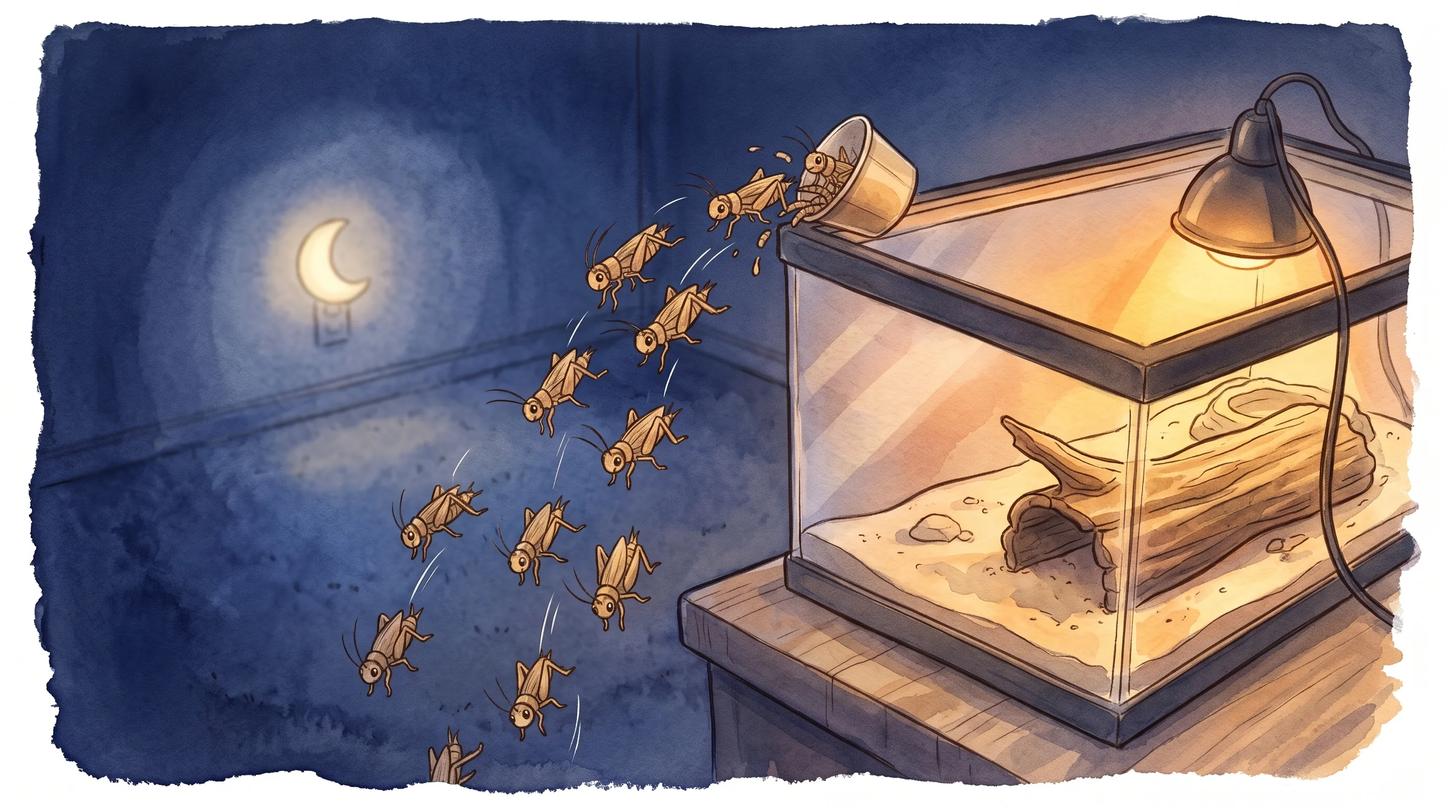
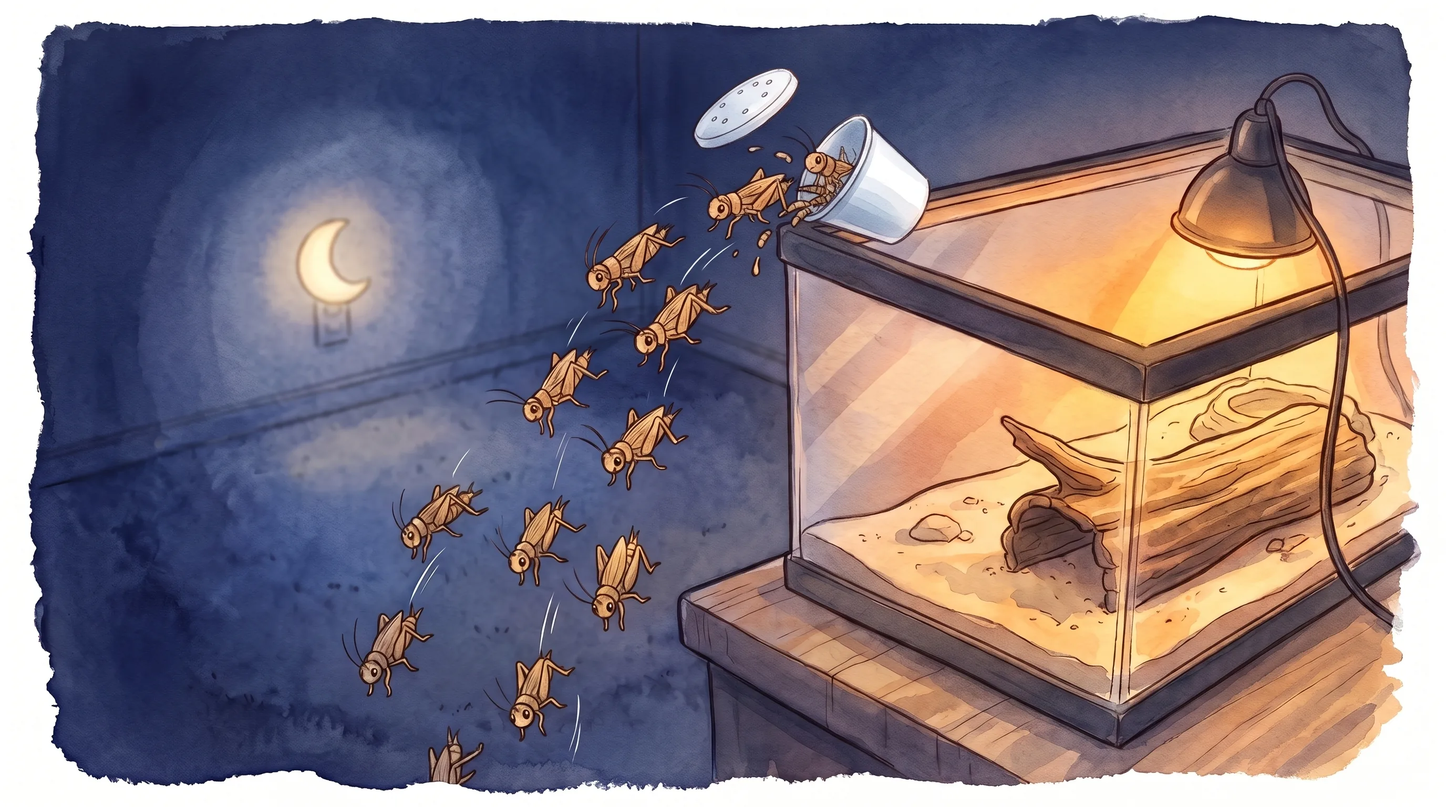
Story panel 4: the falling cup is the white pet-store cup
The cup tipping off the tank lid in panel 4 was painted tan. It is now the same white paper
cricket cup that sits on the lid in panel 3 and tips off it in play (props/store-cup), its
perforated lid popping off. It keeps the old cup's spot, size and tilt, and the rest of the
panel is unchanged. nanogen edit, about $0.16 (design/ASSETS.md).

diff --git a/design/ASSETS.md b/design/ASSETS.md
@@ -93,7 +93,7 @@ $20 in all, of which up to $5 goes on mockups for the shared design. Running tot
 ### Polish pass [polish-V]: $0
 - `sprites/geckos/bigtok/portrait.png`, `sprites/geckos/nana/portrait.png`: face portraits for the Ready? card and dialogs, cropped from each rig's `idle.png` (soft fade at the bottom edge). No generation.
 
-### Issue #6, the feeder cup and the pet-store cup: about $1.21
+### Issue #6, the feeder cup and the pet-store cup: about $1.37
 | ID | File | Tool | Prompt (short) | Tries | Est. cost |
 |---|---|---|---|---|---|
 | cup-open a-d | .gamegen/candidates/i6/cup-{a,b,c,d}.png | imagegen2 2.6-flare medium 1536×1024, transparent; Pip anchor + feeder-cup refs | open pet-store cricket cup from the side: clear + egg crate (a), frosted white + egg crate (b), amber-clear + bran and potato (c), clear + egg crate + lid leaning (d) | 4 (came out about 2:1, too tall for the 6×2-tile cup) | $0.20 (1132 out, 1896 image in each) |
@@ -102,4 +102,6 @@ $20 in all, of which up to $5 goes on mockups for the shared design. Running tot
 | store-cup | art/props/store-cup.png, store-cup-tipped.png | imagegen2 2.6-flare medium, transparent; a crop of open-1's front cup + Pip anchor (tipped: store-cup as ref) | the white paper cricket cup of the opening panels, lidded; the same cup tumbling, lid popping off | 2 | $0.13 |
 | open-3 edit | game/assets/story/open-3.webp | nanogen 2.1 2K edit of the old panel, with cup-b2 and store-cup as refs | store cup on the tank's mesh lid, the tongs lowering Pip into the feeding tub (2 takes, then a second turn to open the mesh under the hand and widen the tub) | 3 | about $0.24 (2.1 isn't priced in the skill; counted like 3.1 flash 2K plus thinking) |
 
-Issue #6 total: about $1.21 ($0.45 candidates + $0.76 final).
+| open-4 edit | game/assets/story/open-4.webp | nanogen 2.1 2K edit of the old panel, with open-3 and store-cup as refs | only the falling cup: the white store cup with its lid popping off (2 takes; kept the one that keeps the cup's spot and size) | 2 | about $0.16 |
+
+Issue #6 total: about $1.37 ($0.45 candidates + $0.76 final + $0.16 panel 4).
